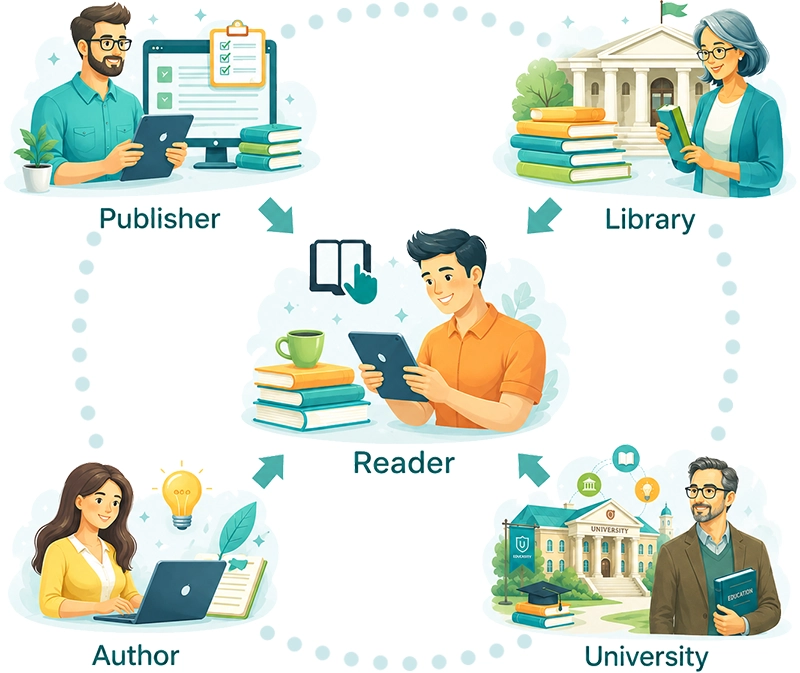
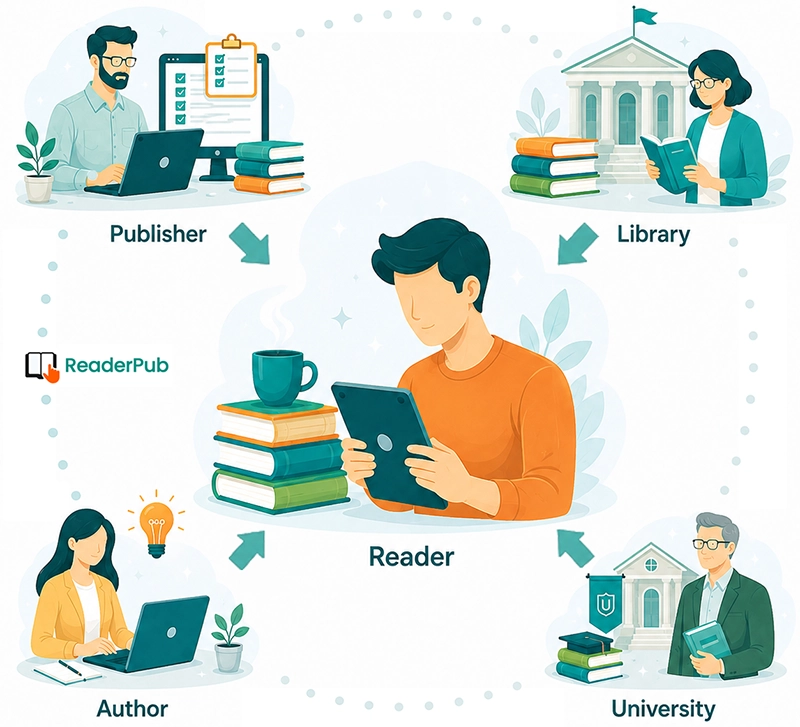
Refine responsive ReaderPub redesign

diff --git a/src/scripts/animation-pass.js b/src/scripts/animation-pass.js
@@ -30,7 +30,12 @@ const revealSelectors = [
 ];
 
 const cardGroupSelector = ".card-grid, .model-grid, .platform-commerce-cards, .webuzz-overview-card-grid, .indie-protection-books";
-const heroMediaSelectors = [".hero-section .hero-media", ".network-hero .institutions-network-media", ".network-hero > .image-block"];
+const heroMediaSelectors = [
+	".hero-section .hero-media",
+	".network-hero .institutions-network-media",
+	".network-hero > .image-block",
+	".home-tech-picture",
+];
 const mediaRevealSelector = [
 	".hero-media",
 	".institutions-network-media",

diff --git a/src/styles/global.css b/src/styles/global.css
@@ -1918,6 +1918,10 @@ body .page .content .institutions-expanded-access-grid {
 		min-height: 0 !important;
 	}
 
+	body .page .content :is(.hero-section, .network-hero) h1 {
+		font-size: clamp(2.25rem, 9.2vw, 3.05rem);
+	}
+
 	.hero-background-spacer {
 		width: 100vw !important;
 		max-width: 100vw !important;
